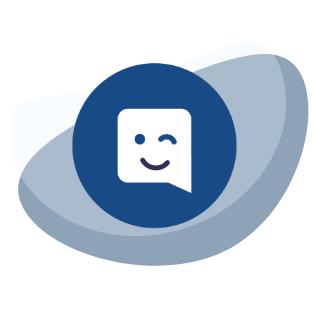
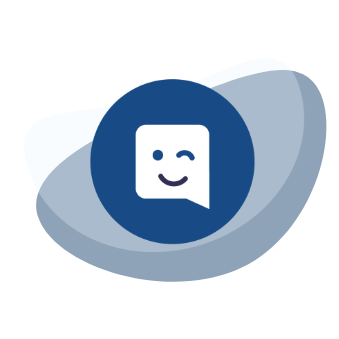
loading screen bug fixed

diff --git a/App.tsx b/App.tsx
@@ -50,7 +50,7 @@ export default function App() {
   if (!isLoadingComplete || !isAuthReady) {
     return (
       <ImageBackground source={BG} style={{ width: "100%", height: "100%" }}>
-        <View style={{ backgroundColor: "#123858" }}>
+        {/* <View style={{ backgroundColor: "#123858" }}> */}
           <View
             style={{
               flex: 1,
@@ -61,14 +61,14 @@ export default function App() {
             <Image
               source={Logo}
               style={{
-                width: 300,
-                height: 300,
+                width: 180,
+                height: 180,
                 resizeMode: "contain",
               }}
             />
             <ActivityIndicator size="large" color="white" />
           </View>
-        </View>
+        {/* </View> */}
       </ImageBackground>
     );
   } else {
